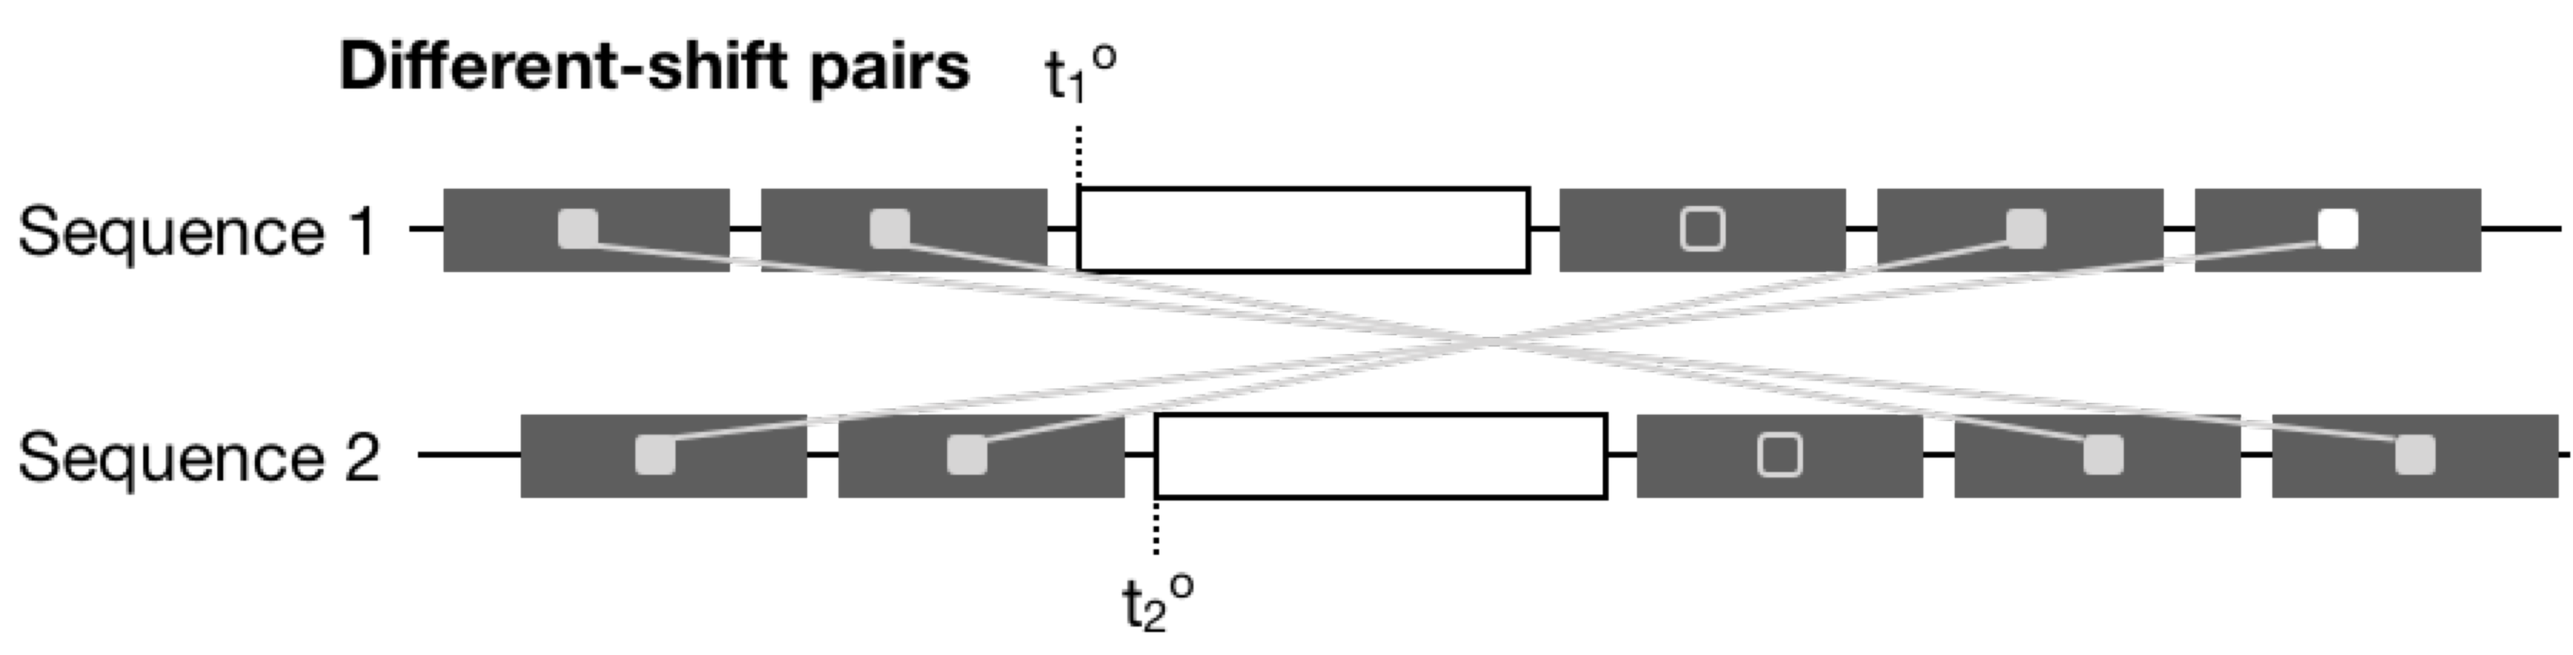
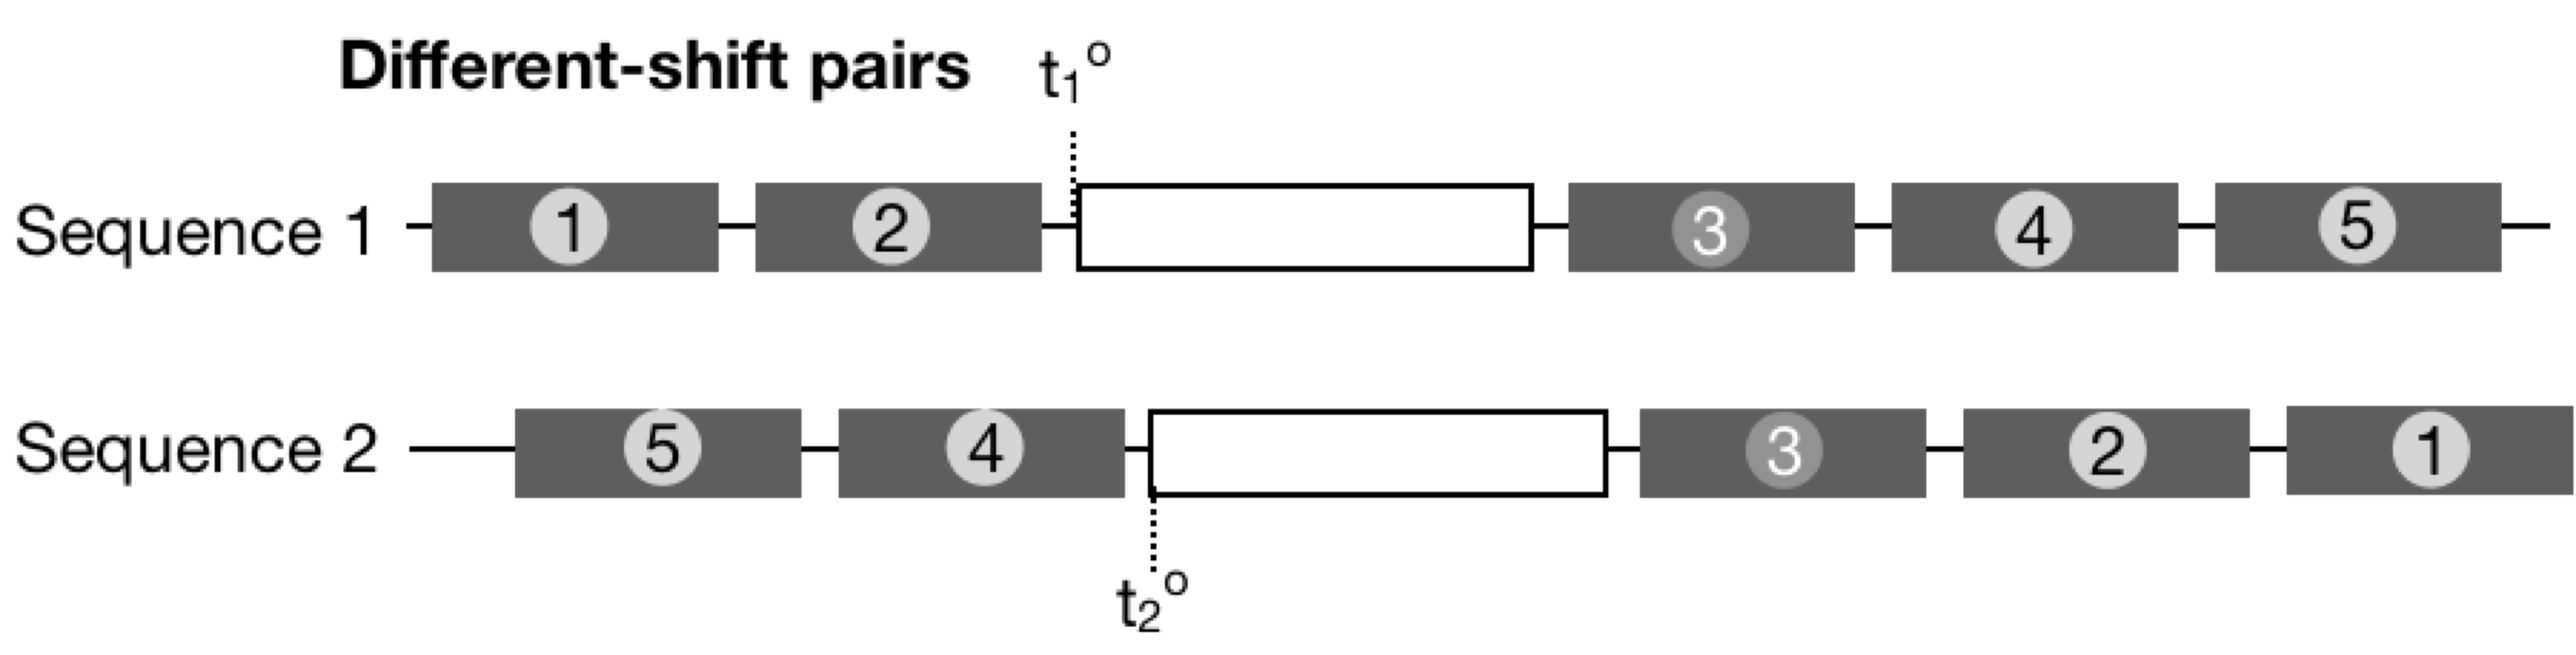
last couple of comments addressed

Changed region(s): [[0.0, 0.2128, 0.9995, 0.9727], [0.1249, 0.0608, 0.3748, 0.152], [0.406, 0.0608, 0.4373, 0.152]]

diff --git a/doc/paper.tex b/doc/paper.tex
@@ -5,6 +5,7 @@
 \usepackage{graphicx,psfrag,epsf}
 \usepackage{enumerate}
 %\usepackage[numbers]{natbib}
+\usepackage[nomarkers]{endfloat}
 \usepackage{natbib}
 \setcitestyle{numbers} 
 \makeatletter % Reference list option change
@@ -306,7 +307,7 @@ reported as 0.06 for false negatives and 0 for false positives.
 
 \begin{figure}
 \centering
-\includegraphics[width=\textwidth]{images/B6-B2-L6-rescaled.pdf}
+\includegraphics[width=\textwidth]{images/B6-B2-L6-rescaled.png}
 
 
 \caption{\label{fig:rgl} Image of a bullet land from a confocal light microscope at 20 fold magnification (top) and a chart of the corresponding signature of the same land (bottom). The dotted lines connect some peaks visible in both visualizations.}
@@ -481,7 +482,7 @@ markings come from the same source}. A \(p\)-value for the Chumbley
 score test is then computed as a Mann Whitney U statistic to compare
 between in-phase sample and out-of-phase sample. A low \(p\)-value is
 interpreted as a rejection of the null hypothesis in favor of the
-alternative hypothesis of \texttt{same-source}.
+alternative hypothesis of \emph{same-source}.
 
 In the original method proposed in \citet{chumbley} both in-phase and
 out-of-phase sample are extracted randomly, whereas \citet{hadler}
@@ -555,15 +556,31 @@ simultaneously. Let us assume that this results in \(I\) pairs. Define
 \(k = 1, 2\),
 i.e.~\(s_{(1)}^{(k)} < s_{(2)}^{(k)} < ... < s_{(I)}^{(k)}\).
 
-We then define the pairs for different-shifts as
+\begin{figure}[hbtp]
+\centering
+\includegraphics[width=.7\textwidth]{images/sketch-diff-2.png}
+\caption{\label{sketch-diff-2}Sketch of adjusted different-shift pairings. Pairings are side from opposite ends of the two markings. For an odd number of pairings the middle pair is left out. At most one of the same-shift pairings can not be matched with a different-shift pair under algorithm (CS2). }
+\end{figure}
+
+We then define the pairs for different-shifts by matching up windows
+from opposite ends of the markings, i.e.~the first pair consists of a
+matchup of the first window on the first marking and the last window on
+the second marking, the second pair consists of the second window on the
+first marking and the second to last pair on the second marking, and so
+on. In case of an odd number of pairs we need to be careful to exclude
+the middle pair from this assignment: the middle pair is already part of
+the same-shift pair, therefore we cannot re-use the same pair as part of
+the different-shift pairs.
+
+Mathematically, this assignment of pairs is written as:
 \begin{equation}\label{eq.diff2}
 \left(s_{(j)}^{(1)}, s_{(I-j+1)}^{(1)} \right) \text{ for } j = 
 \begin{cases}
 1, ..., I & \text{ for even } I \\
 1, ..., (I-1)/2, (I-1)/2 + 2, ..., I & \text{ for odd } I
-\end{cases},
-\end{equation} i.e.~for an odd number of same-shift correlations, we
-skip the middle pair for the different-shift correlations (see
+\end{cases}.
+\end{equation} Note that for an odd number of same-shift correlations,
+we skip the middle pair for the different-shift correlations (see also
 \autoref{sketch-diff-2}). This pairing ensures that the number of
 different-shift pairings is the same or at most one less than the number
 of same-shift pairings in all tests. In the remainder of the paper, we
@@ -588,12 +605,6 @@ Note that in all of the following land-to-land comparisons only lands
 are compared that are suitable for a comparison, i.e.~a signature can be
 extracted from the scan. In particular, lands which exhibited tank rash
 were removed from comparison \citep{aoas}.
-
-\begin{figure}[hbtp]
-\centering
-\includegraphics[width=.7\textwidth]{images/sketch-diff-2.png}
-\caption{\label{sketch-diff-2}Sketch of adjusted different-shift pairings. At most one of the same-shift pairings can not be matched with a different-shift pair under algorithm (CS2). }
-\end{figure}
 
 \hypertarget{testing-setup}{%
 \subsection*{\texorpdfstring{\emph{Testing
@@ -962,7 +973,6 @@ In \autoref{same-shift-failure} both CS1 and CS2 fail, because the lag between o
 \caption{\label{same-shift-failure}Sketch of same-shift pairings. When the lag between optimal reference points is too large to accommodate a validation window in both signatures, both CS1 and CS2 fail.}
 \end{figure}
 
-\newpage
 \subsection{Type 2 errors: CS1 vs CS2}
 \label{appendix:appxtype2}
 \autoref{fig:type2} gives an overview of type 2 error rates of methods CS1 and CS2 for different significance levels $\alpha$. Method CS2 is outperforming CS1 significantly in every instance.

diff --git a/doc/template.tex b/doc/template.tex
@@ -5,6 +5,7 @@
 \usepackage{graphicx,psfrag,epsf}
 \usepackage{enumerate}
 %\usepackage[numbers]{natbib}
+\usepackage[nomarkers]{endfloat}
 \usepackage{natbib}
 \setcitestyle{numbers} 
 \makeatletter % Reference list option change
